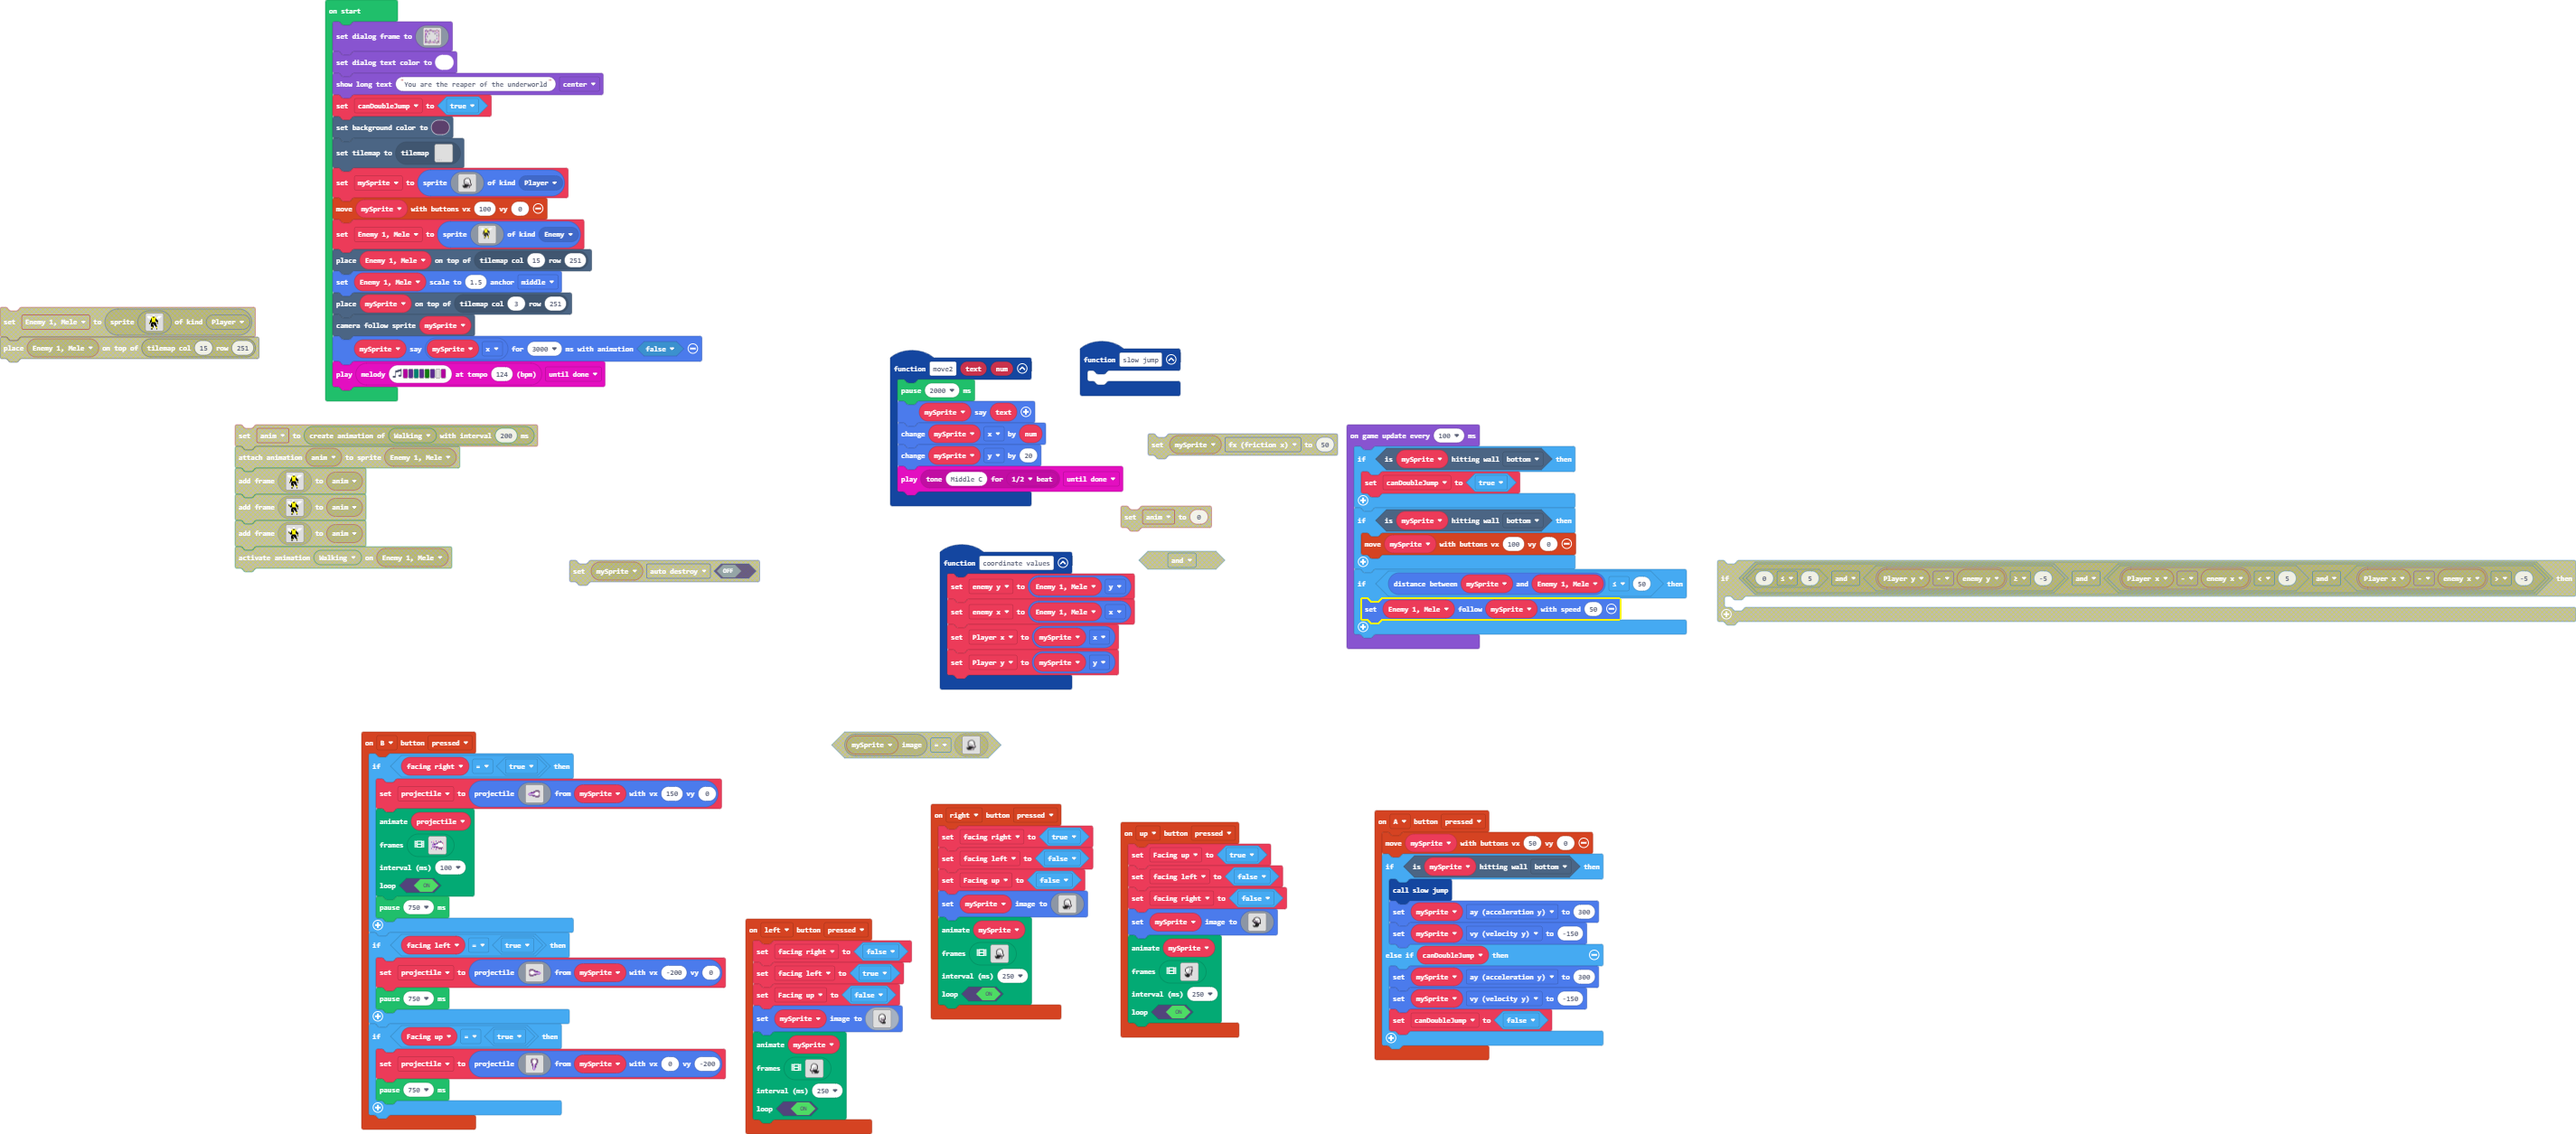
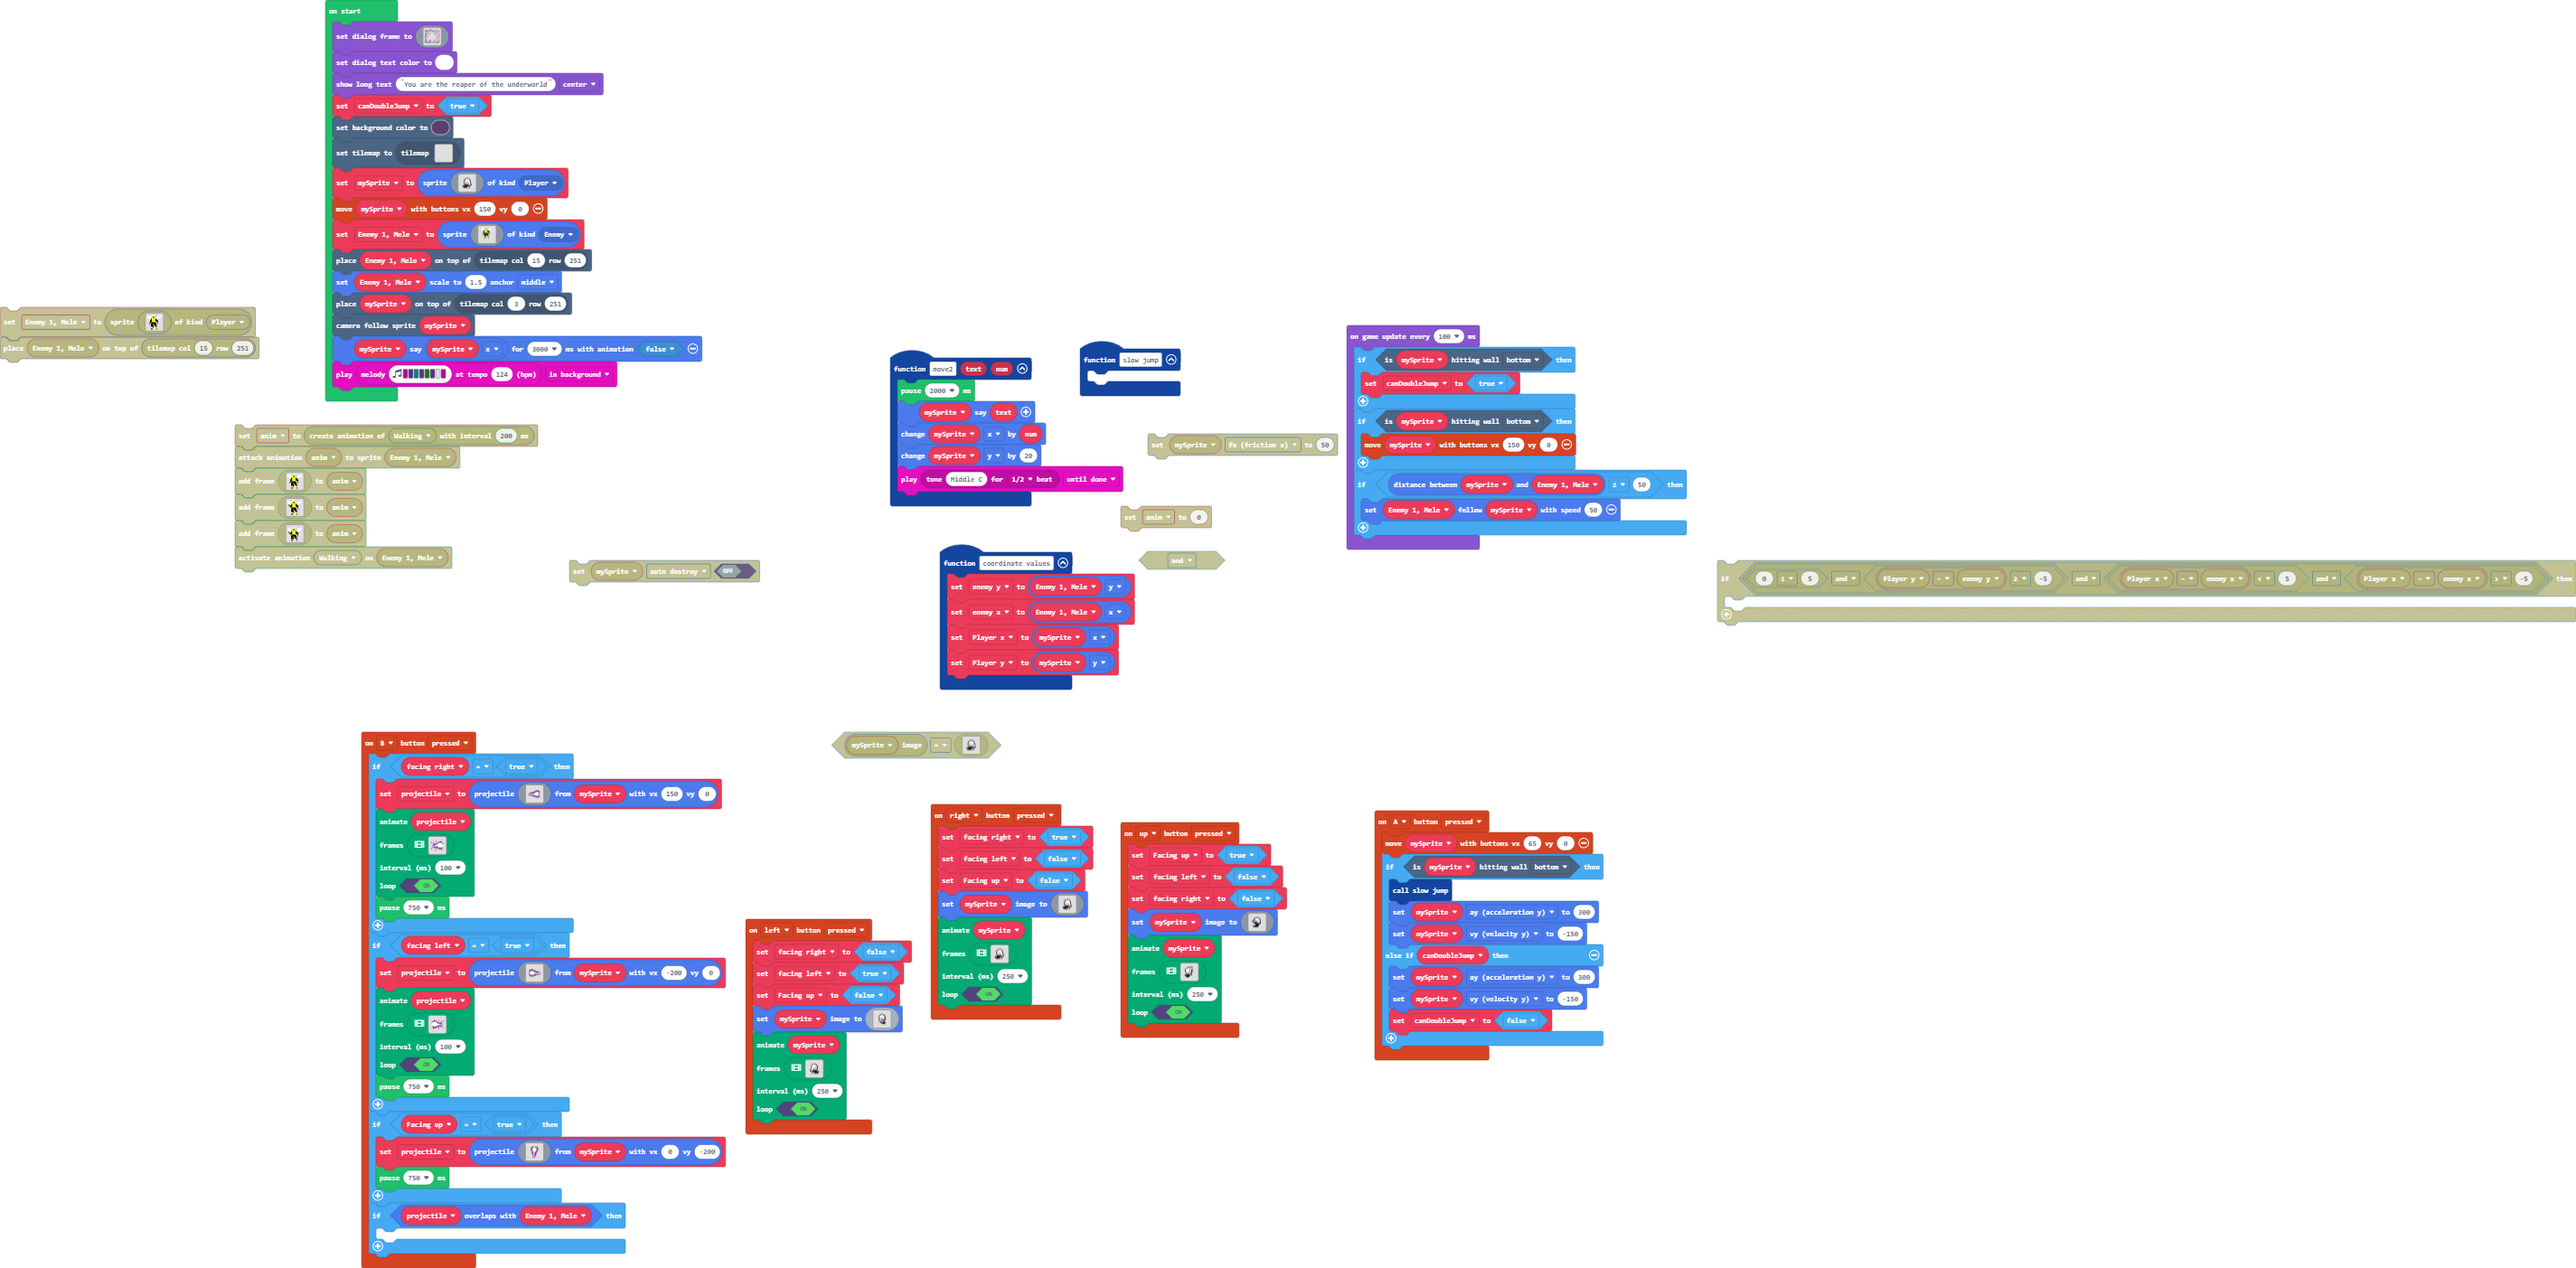
Update pxt.json, main.blocks, main.ts

diff --git a/main.ts b/main.ts
@@ -280,6 +280,80 @@ controller.B.onEvent(ControllerButtonEvent.Pressed, function () {
             . . . . . . . . . . . . . . . . 
             . . . . . . . . . . . . . . . . 
             `, mySprite, -200, 0)
+        animation.runImageAnimation(
+        projectile,
+        [img`
+            . . . . . . . . . . . . . . . . 
+            . . . . . . . . . . . . . . . . 
+            . . . . . . . . . . . . . . . . 
+            . . . . a . 3 . . a . . 3 . . . 
+            . . . c c c c . . . . 3 . . a . 
+            . 3 c 1 1 1 1 c c . . . a . . . 
+            . 3 1 1 1 1 1 1 a a c c . . . . 
+            . . 1 1 1 1 1 1 1 1 a a a a . . 
+            . . 1 1 1 1 1 1 1 1 1 1 1 1 . . 
+            . . 1 1 1 1 1 b b a c c a a . . 
+            . . c b b b b a c c . a . . . . 
+            . 3 . c c c c . 3 . . . . . a . 
+            . . . a . 3 . . . a . . 3 . . . 
+            . . . . . . . . . . . . . . . . 
+            . . . . . . . . . . . . . . . . 
+            . . . . . . . . . . . . . . . . 
+            `,img`
+            . . . . . . . . . . . . . . . . 
+            . . . . . 3 . . . . . . . . . . 
+            . . . . a . . . . . . . . . . . 
+            . . . a . . . . . . 3 . . 3 . . 
+            . . 3 c c c c . . a . . 3 . . . 
+            . . c b b b b c c . . . a . . . 
+            . 3 b 1 1 1 1 b a a c c . . . . 
+            . a 1 1 1 1 1 1 b b a a a a . . 
+            . 3 1 1 1 1 1 1 1 1 1 b b 1 . . 
+            . 3 1 1 1 1 1 1 1 a c c a a . . 
+            . . c 1 1 1 1 a c c . . . . . . 
+            . . 3 c c c c . . . . a . . 3 . 
+            . . . a 3 . 3 . . . . . . . . . 
+            . . . . a . . 3 . . 3 . . . 3 . 
+            . . . . . . . . . . . . . . . . 
+            . . . . . . . . . . . . . . . . 
+            `,img`
+            . . . . . . . . . . . . . . . . 
+            . . . . . . . . . . . . . . . . 
+            . . . . a . . . . . . . . . . . 
+            . . . a . . . . . . . . . . . . 
+            . . a c c c c . . a . . . . . a 
+            . . c 1 1 b b c c . . . a . a . 
+            . a b 1 1 1 1 b a a c c . . . . 
+            . a 1 1 1 1 1 1 1 b a a a a . . 
+            . a 3 1 3 1 1 3 1 1 1 1 3 b . . 
+            . a 3 1 1 1 1 b b a c 3 a a . . 
+            . . c 1 1 3 b 3 c c . 3 . a a . 
+            . . a c c c c . . . . a . . . . 
+            . . 3 a . . . . 3 . . . . . . . 
+            . . . . 3 . . . . . . . . . . . 
+            . . . . . . . . . . . . . . . . 
+            . . . . . . . . . . . . . . . . 
+            `,img`
+            . . . . . . . . . . . . . . . . 
+            . . . . . a . . . . . . . . . . 
+            . . . a a b . . . . . . . . . . 
+            . . a a . . . . a . . . . . . . 
+            . a a c c c c . . a . . . . . . 
+            . a b b b b b c c . . . . . . . 
+            . a 1 1 1 1 1 b a a c c . . a . 
+            . a 1 1 1 1 1 1 1 b a a a a . . 
+            . a 1 1 1 1 1 b 1 1 1 1 1 b a . 
+            . a b 1 1 1 1 b b a c c a a . . 
+            . a c b b b b a c c . . . . . . 
+            . . a c c c c . . . . . . . . . 
+            . . a b a . . . . a . . . . . . 
+            . . . . a b . . a . . . . . . . 
+            . . . . a a . . . . . . . . . . 
+            . . . . . . . . . . . . . . . . 
+            `],
+        100,
+        true
+        )
         pause(750)
     }
     if (Facing_up == true) {
@@ -303,9 +377,12 @@ controller.B.onEvent(ControllerButtonEvent.Pressed, function () {
             `, mySprite, 0, -200)
         pause(750)
     }
+    if (projectile.overlapsWith(Enemy_1_Mele)) {
+    	
+    }
 })
 controller.A.onEvent(ControllerButtonEvent.Pressed, function () {
-    controller.moveSprite(mySprite, 50, 0)
+    controller.moveSprite(mySprite, 65, 0)
     if (mySprite.isHittingTile(CollisionDirection.Bottom)) {
         slow_jump()
         mySprite.ay = 300
@@ -615,7 +692,7 @@ canDoubleJump = true
 scene.setBackgroundColor(12)
 tiles.setCurrentTilemap(tilemap`level1`)
 mySprite = sprites.create(assets.image`myImage1`, SpriteKind.Player)
-controller.moveSprite(mySprite, 100, 0)
+controller.moveSprite(mySprite, 150, 0)
 Enemy_1_Mele = sprites.create(img`
     ......11........
     111...11....1111
@@ -644,13 +721,13 @@ Enemy_1_Mele.setScale(1.5, ScaleAnchor.Middle)
 tiles.placeOnTile(mySprite, tiles.getTileLocation(3, 251))
 scene.cameraFollowSprite(mySprite)
 mySprite.sayText(mySprite.x, 3000, false)
-music.play(music.stringPlayable("C D F D G D - C ", 124), music.PlaybackMode.UntilDone)
+music.play(music.stringPlayable("C D F D G D - C ", 124), music.PlaybackMode.InBackground)
 game.onUpdateInterval(100, function () {
     if (mySprite.isHittingTile(CollisionDirection.Bottom)) {
         canDoubleJump = true
     }
     if (mySprite.isHittingTile(CollisionDirection.Bottom)) {
-        controller.moveSprite(mySprite, 100, 0)
+        controller.moveSprite(mySprite, 150, 0)
     }
     if (spriteutils.distanceBetween(mySprite, Enemy_1_Mele) <= 50) {
         Enemy_1_Mele.follow(mySprite, 50)
